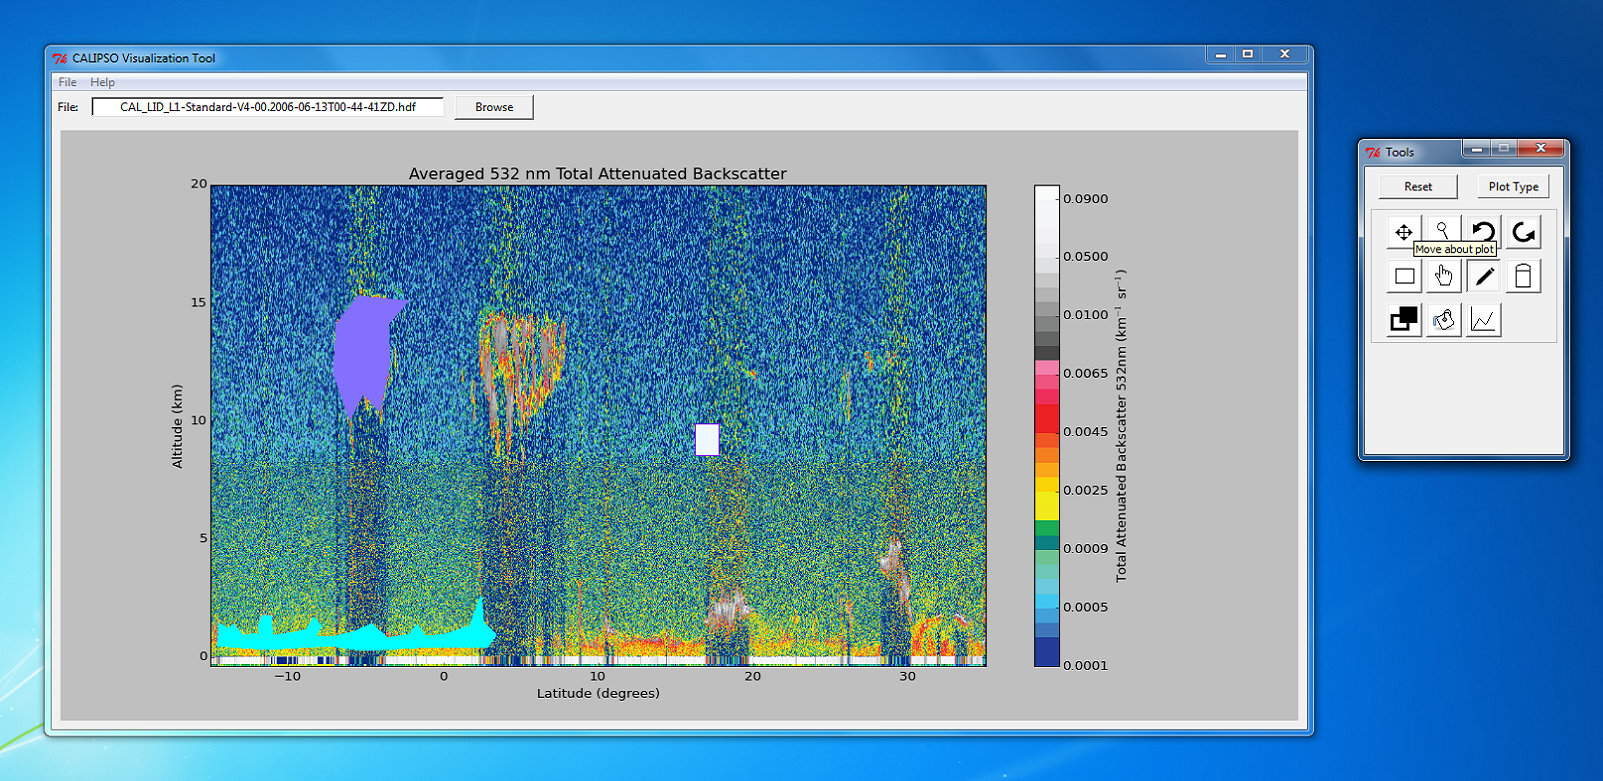
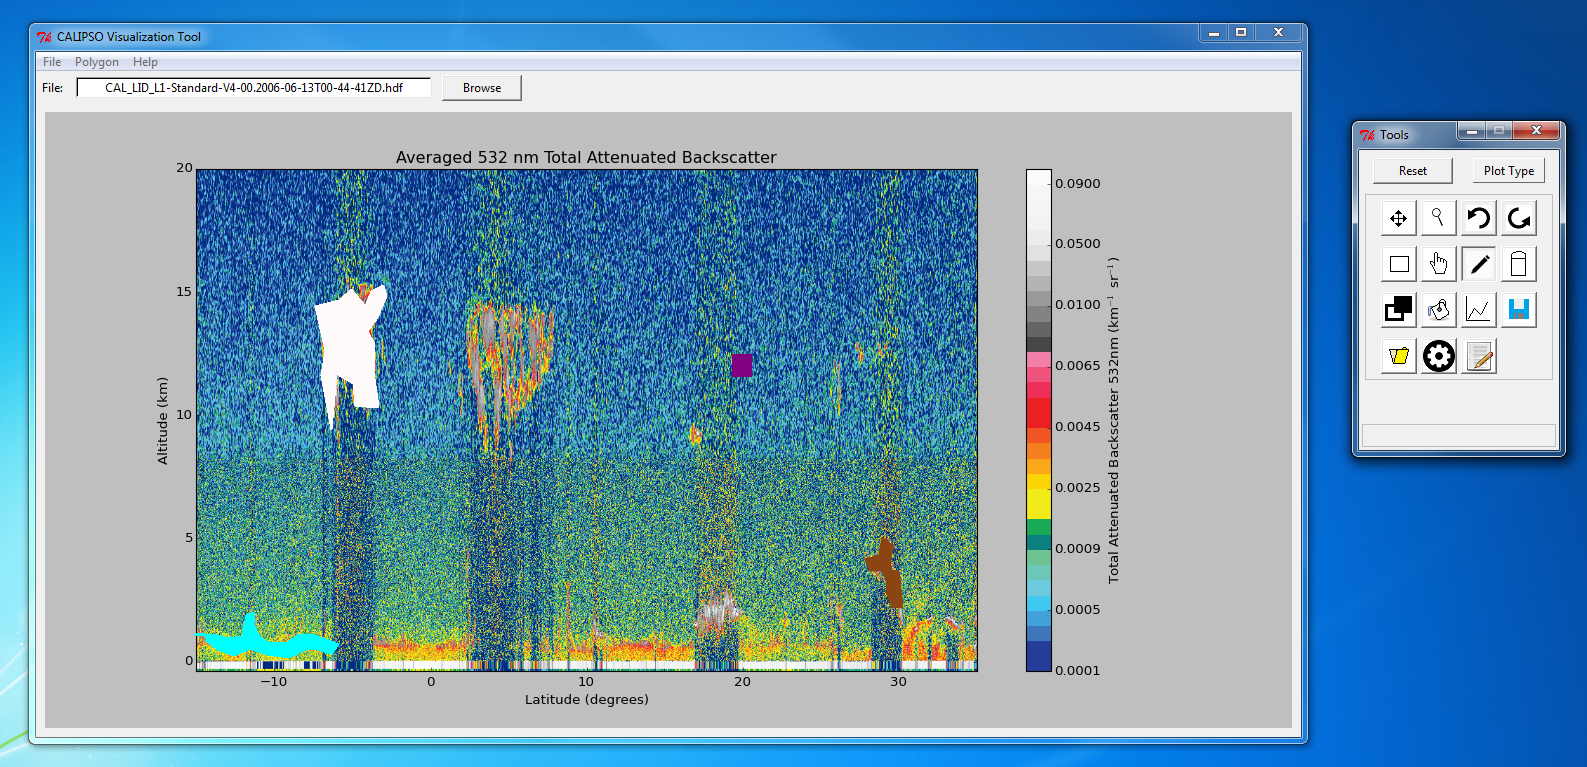
overview doc changes and image updates

diff --git a/docs/source/conf.py b/docs/source/conf.py
@@ -61,9 +61,9 @@ copyright = u'2015, Grant Mercer, Nathan Qian'
 # built documents.
 #
 # The short X.Y version.
-version = '0.0.5'
+version = '0.1.0'
 # The full version, including alpha/beta/rc tags.
-release = '0.0.5'
+release = '0.1.0'
 
 # The language for content autogenerated by Sphinx. Refer to documentation
 # for a list of supported languages.

diff --git a/docs/source/overview.rst b/docs/source/overview.rst
@@ -69,10 +69,10 @@ Features
 .. class:: left: blank program, right: shapes form around selected areas of the plot
 
    .. image:: _static/program.png
-      :scale: 40%
+      :scale: 30%
 
    .. image:: _static/programShapesActive.png
-      :scale: 40%
+      :scale: 30%
 
 
 CALIPSO is still in a very early development phase
@@ -102,6 +102,10 @@ Once a plot is displayed, the user can select from a range of features in the *t
 * ``Focus`` : fill or no fill setting for shapes
 * ``Paint`` : specify the color of a shape
 * ``Hide``  : hide shapes
+* ``Save``  : save visible objects to a JSON file
+* ``Load``  : load a JSON file containing objects
+* ``View``  : view notes and attributes of polygon
+* ``Edit``  : add notes and attributes for polygons
 
 Additional features are still to come!
 
@@ -119,19 +123,5 @@ Additional Information
      May 2000 - Nov 2010
 
 * **Earth Observations & Parameters:**
-     CALIPSO, CALIOP - Vertial Profile of Aerosols
-
-* **Ancillary Datasets Utilized:**
-     Provider & Dataset - Parameter (*examples below* )
-
-     * USGS National Land Cover Dataset (NLCD)
-     * NOAA Coastal Change Analysis Program (C-CAP) - regional land cover
-     * EPA AIRNow PM:sub:`2.5` dataset - PM:sub:`2.5` measurements
-
-* **Models Utilized:**
-     Agency & Model Name ( *examples below* )
-
-     * USGS National Invasive Species Forecasting System (ISFS)
-     * NASA Regional Ocean Model System (ROMS)
-     * NOAA Sea, Lake and Overland Surges from Hurricanes (SLOSH) model
+     CALIPSO, CALIOP - Vertial Profile of Aerosolsl
 

diff --git a/docs/source/index.rst b/docs/source/index.rst
@@ -8,8 +8,8 @@ Welcome to CALIPSO's documentation!
 
 Everything you'll need to know about the CALIPSO Visualization project from a developer standpoint can be read about here! If you're looking to add to the doc chain, please ensure you reference current .rst documents to build your new documentation. Conforming to previous style is *highly* recommended
 
-Contents:
-=========
+Information:
+=============
 
 .. toctree::
    :maxdepth: 2
